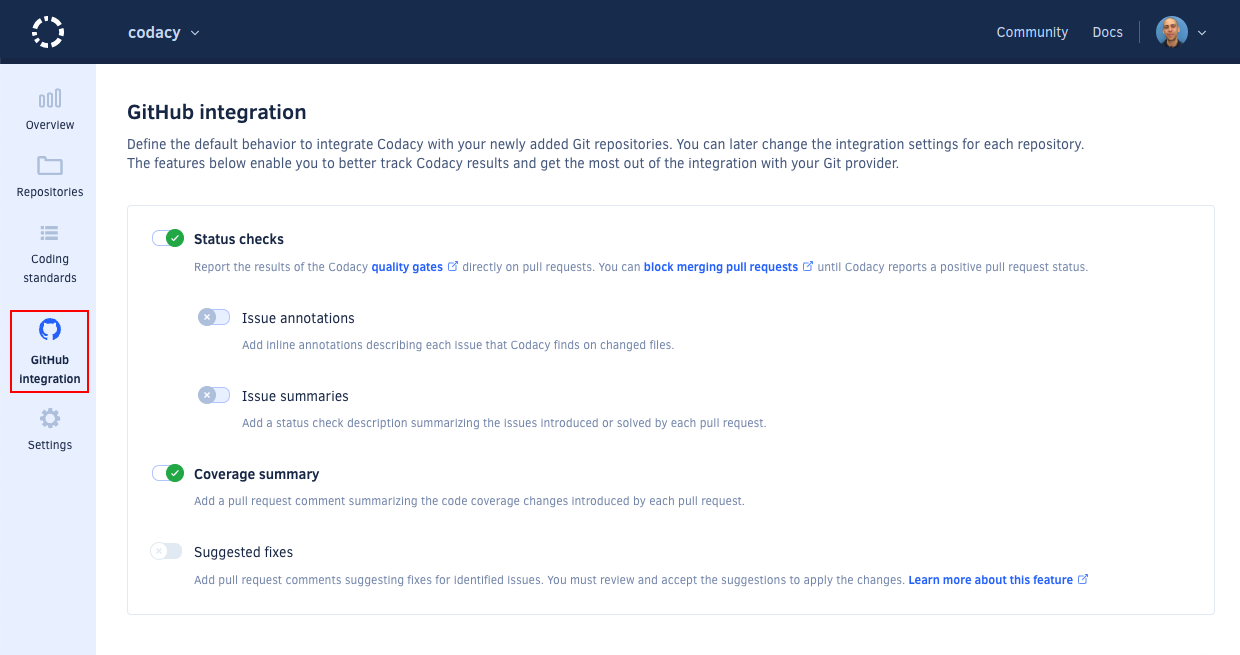
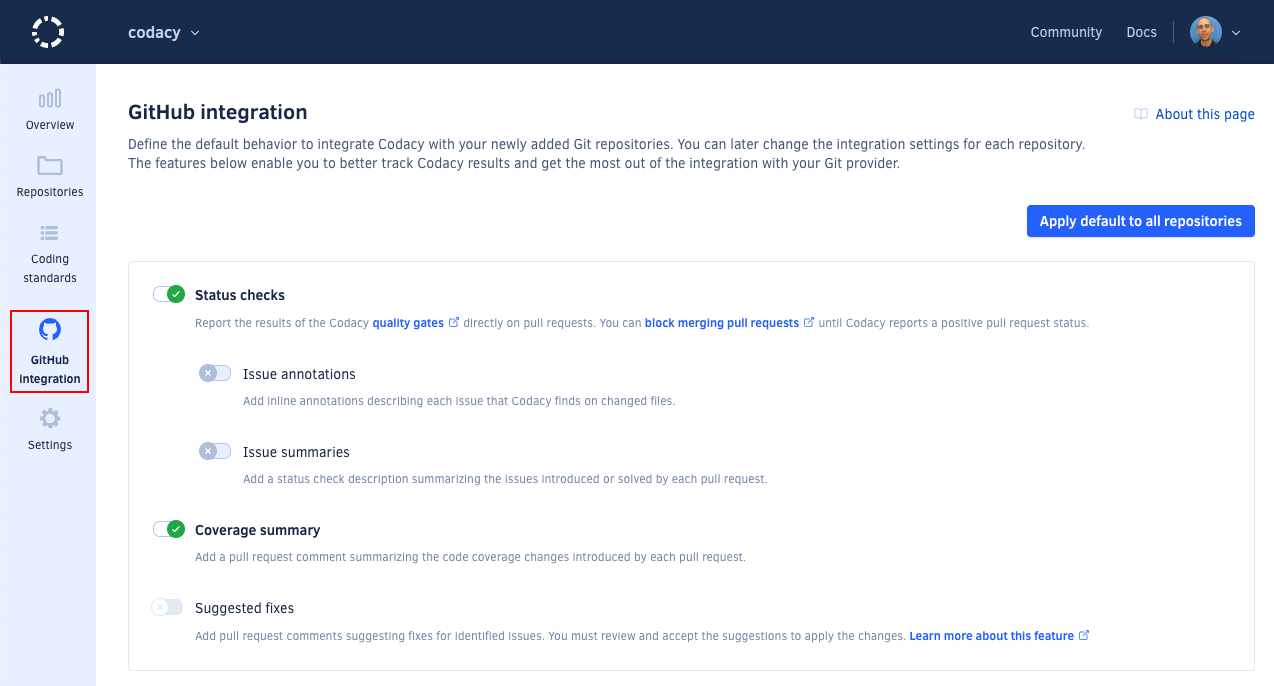
feat: Apply default Git provider integration settings to all repos PLUTO-550 (#1713)
* wip: Signalize content to update

* feat: Add page for default Git provider integration settings and adapt existing integrations content

* feat: Update roles and permissions for organizations

* feat: Add tip to define default integration settings

* feat: Set tip as reusable content and add it also to troubleshooting topic

* Update docs/assets/includes/default-git-provider-settings-tip.md

* Update docs/organizations/default-git-provider-integration.md

* Update docs/assets/includes/default-git-provider-settings-tip.md

* Update docs/organizations/roles-and-permissions-for-organizations.md

* Update docs/organizations/default-git-provider-integration.md

* Update docs/organizations/default-git-provider-integration.md

* clean: Small tweaks according to feedback

* clean: Reorganize content to remove redundant links

* feat: Update screenshot to show the correct default settings

* clean: Rename .md file according to naming convention

* Update docs/repositories-configure/integrations/gitlab-integration.md

* clean: Tweak for clarity

* wip: Signalize content to update

* feat: Add section describing the apply all feature. Add tip to mention the apply all

* Update docs/repositories-configure/integrations/github-integration.md

* Update docs/organizations/configuring-default-git-provider-integration-settings.md

* Update docs/faq/troubleshooting/why-did-codacy-stop-commenting-on-pull-requests.md

* clean: Move tip position also for GitLab and Bitbucket
[…]

diff --git a/docs/organizations/configuring-default-git-provider-integration-settings.md b/docs/organizations/configuring-default-git-provider-integration-settings.md
@@ -8,6 +8,12 @@ To configure these default settings, go to the Git provider integration page for
 
 The organization-level Git provider integration settings define the defaults that Codacy applies to new repositories. You can then customize the settings for each individual repository, which depend on your Git provider, [GitHub](../repositories-configure/integrations/github-integration.md), [GitLab](../repositories-configure/integrations/gitlab-integration.md) or [Bitbucket](../repositories-configure/integrations/bitbucket-integration.md).
 
+## Applying default settings to all repositories {: id="apply-all"}
+
+To ensure that all your repositories are configured with the default Git provider integration settings defined for your organization, click the button **Apply default to all repositories**.
+
+![Apply default settings to all repositories](images/default-git-provider-settings-apply-all.png)
+
 ## See also
 
 -   [Integrating Codacy with your Git workflow](../getting-started/integrating-codacy-with-your-git-workflow.md)

diff --git a/docs/getting-started/integrating-codacy-with-your-git-workflow.md b/docs/getting-started/integrating-codacy-with-your-git-workflow.md
@@ -42,9 +42,13 @@ Follow the instructions for [GitHub](../repositories-configure/integrations/gith
 1.  Enable the Git provider integration
 1.  Enable the option **Status checks** (GitHub) or **Pull request status** (GitLab and Bitbucket)
 
-![Enabling your Git provider integration](../repositories-configure/integrations/images/github-integration.png)
+    {%
+        include-markdown "../assets/includes/default-git-provider-settings-tip.md"
+        start="<!--default-settings-start-->"
+        end="<!--default-settings-end-->"
+    %}
 
-{% include-markdown "../assets/includes/default-git-provider-settings-tip.md" %}
+![Enabling your Git provider integration](../repositories-configure/integrations/images/github-integration.png)
 
 ## 3. Blocking merging pull requests (optional) {: id="blocking-pull-requests"}
 

diff --git a/docs/repositories-configure/integrations/bitbucket-integration.md b/docs/repositories-configure/integrations/bitbucket-integration.md
@@ -30,7 +30,13 @@ If you remove the integration, you can enable it again as follows:
 
 To configure the Bitbucket integration, open your repository **Settings**, tab **Integrations**.
 
-Depending on the options that you enable, Codacy will automatically update pull requests on Bitbucket with extra information when accepting pull requests:
+Depending on the options that you enable, Codacy will automatically update pull requests on Bitbucket with extra information when accepting pull requests.
+
+{%
+    include-markdown "../../assets/includes/default-git-provider-settings-tip.md"
+    start="<!--default-settings-apply-all-start-->"
+    end="<!--default-settings-apply-all-end-->"
+%}
 
 ### Pull Request Status
 

diff --git a/docs/repositories-configure/integrations/gitlab-integration.md b/docs/repositories-configure/integrations/gitlab-integration.md
@@ -26,7 +26,13 @@ If you remove the integration, you can enable it again as follows:
 
 To configure the GitLab integration, open your repository **Settings**, tab **Integrations**.
 
-Depending on the options that you enable, Codacy will automatically update merge requests on GitLab with extra information when accepting merge requests:
+Depending on the options that you enable, Codacy will automatically update merge requests on GitLab with extra information when accepting merge requests.
+
+{%
+    include-markdown "../../assets/includes/default-git-provider-settings-tip.md"
+    start="<!--default-settings-apply-all-start-->"
+    end="<!--default-settings-apply-all-end-->"
+%}
 
 ### Pull Request Status
 

diff --git a/docs/repositories-configure/integrations/github-integration.md b/docs/repositories-configure/integrations/github-integration.md
@@ -28,7 +28,13 @@ If you remove the integration, you can enable it again as follows:
 
 To configure the GitHub integration, open your repository **Settings**, tab **Integrations**.
 
-Depending on the options that you enable, Codacy will automatically update pull requests on GitHub with extra information when accepting pull requests:
+Depending on the options that you enable, Codacy will automatically update pull requests on GitHub with extra information when accepting pull requests.
+
+{%
+    include-markdown "../../assets/includes/default-git-provider-settings-tip.md"
+    start="<!--default-settings-apply-all-start-->"
+    end="<!--default-settings-apply-all-end-->"
+%}
 
 ### Status checks
 

diff --git a/docs/assets/includes/default-git-provider-settings-tip.md b/docs/assets/includes/default-git-provider-settings-tip.md
@@ -1,2 +1,9 @@
+<!--default-settings-start-->
 !!! tip
     Configure the [default Git provider integration settings](../../organizations/configuring-default-git-provider-integration-settings.md) that Codacy applies to new repositories to help ensure that all new repositories have the same settings.
+<!--default-settings-end-->
+
+<!--default-settings-apply-all-start-->
+!!! tip
+    You can [apply the default Git provider integration settings to all repositories](../../organizations/configuring-default-git-provider-integration-settings.md#apply-all) to ensure that your repositories all share the same settings.
+<!--default-settings-apply-all-end-->

diff --git a/docs/faq/troubleshooting/why-did-codacy-stop-commenting-on-pull-requests.md b/docs/faq/troubleshooting/why-did-codacy-stop-commenting-on-pull-requests.md
@@ -35,7 +35,11 @@ To fix this issue and avoid future disruptions, re-enable the GitLab or Bitbucke
 
     -   [Enabling the Bitbucket integration](../../repositories-configure/integrations/bitbucket-integration.md#enabling)
 
-{% include-markdown "../../assets/includes/default-git-provider-settings-tip.md" %}
+    {%
+        include-markdown "../../assets/includes/default-git-provider-settings-tip.md"
+        start="<!--default-settings-start-->"
+        end="<!--default-settings-end-->"
+    %}
 
 ## See also
 
